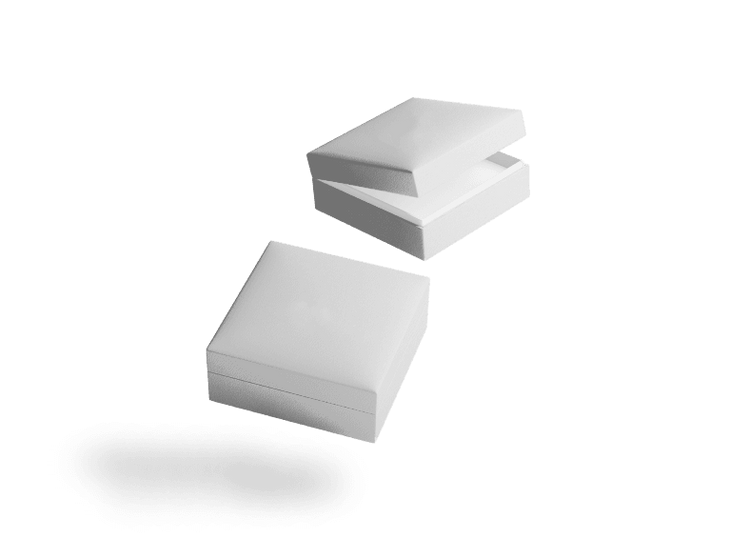
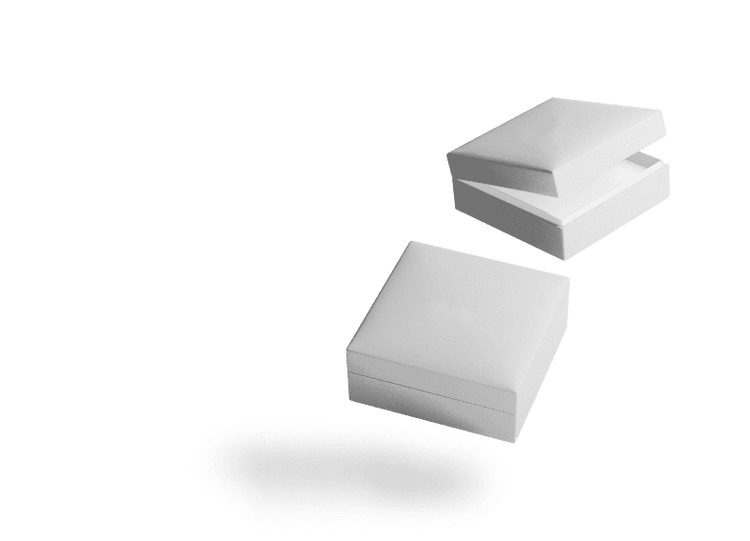
new imgs for slider and preload next img

Changed region(s): [[0.276, 0.1774, 0.8893, 0.9464], [0.1227, 0.8281, 0.3373, 0.9168]]

diff --git a/src/components/slider/NewSlider.jsx b/src/components/slider/NewSlider.jsx
@@ -14,9 +14,13 @@ const settings={
   sliderDelay:0.3,
 }
 const sliderDataStatic=[
+  {withDesign:"images/pairs/aizem_cup_design.png",noDesign:"images/pairs/aizem_cup_nodesign.png"},
+  {withDesign:"images/pairs/mss_transporter_design.png",noDesign:"images/pairs/mss_transporter_noDesign.png"},
   {withDesign:"images/pairs/medium_boxes_design_b4ac0717e0.png",noDesign:"images/pairs/medium_boxes_nodesign_60306de0e2.png"},
-  {withDesign:"images/pairs/medium_outdoor_Design_b3624bb656.png",noDesign:"images/pairs/medium_outdoor_blank_ffbc047e72.png"},
-  {withDesign:"images/pairs/medium_Scene_29_4012c698e6.png",noDesign:"images/pairs/medium_Scene_29_nodesign_e24d8eb0bd.png"},
+  {withDesign:"images/pairs/traveysion_umbrella_design.png",noDesign:"images/pairs/traveysion_umbrella_nodesign.png"},
+  {withDesign:"images/pairs/aizem_markers_design.png",noDesign:"images/pairs/aizem_markers_nodesign.png"},
+  {withDesign:"images/pairs/overquell_macbook_design.png",noDesign:"images/pairs/overquell_macbook_nodesign.png"},
+  {withDesign:"images/pairs/traveysion_heater_design.png",noDesign:"images/pairs/traveysion_heater_nodesign.png"},
 ]
 
 function NewSlider(props) {   
@@ -117,6 +121,10 @@ useEffect(()=>{
           </mask>
       </defs>  
     <SliderPair sliderData={sliderDataStatic} counter={counter}/>
+   <div style={{visibility:"hidden"}}>
+      <img src={sliderDataStatic[counter+1==sliderDataStatic.length?0:counter+1].withDesign} alt="" srcset="" />
+      <img src={sliderDataStatic[counter+1==sliderDataStatic.length?0:counter+1].noDesign} alt="" srcset="" />
+      </div>
     </svg>
     </div>
   )

diff --git a/src/components/slider/SliderPair.module.scss b/src/components/slider/SliderPair.module.scss
@@ -2,5 +2,7 @@
     width:100%;
     height:100%;
     object-fit: cover;
+    // float:right;
+    margin-left: auto;
 
 }
